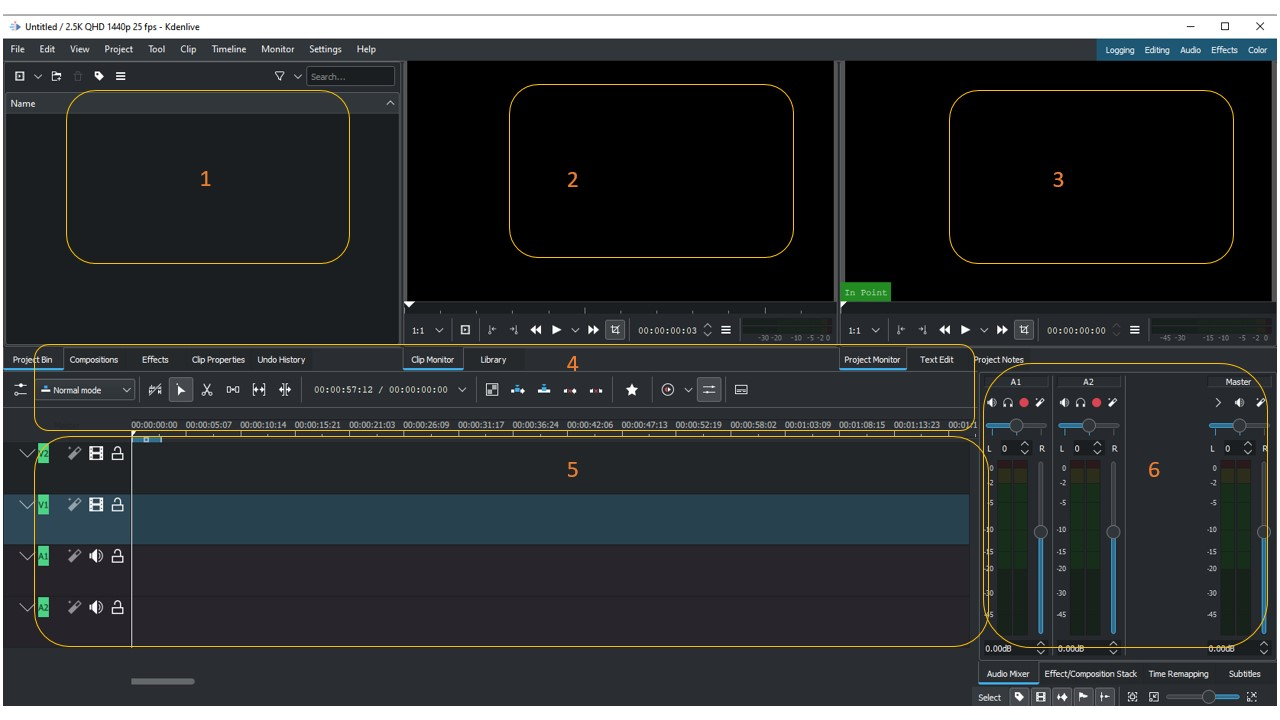
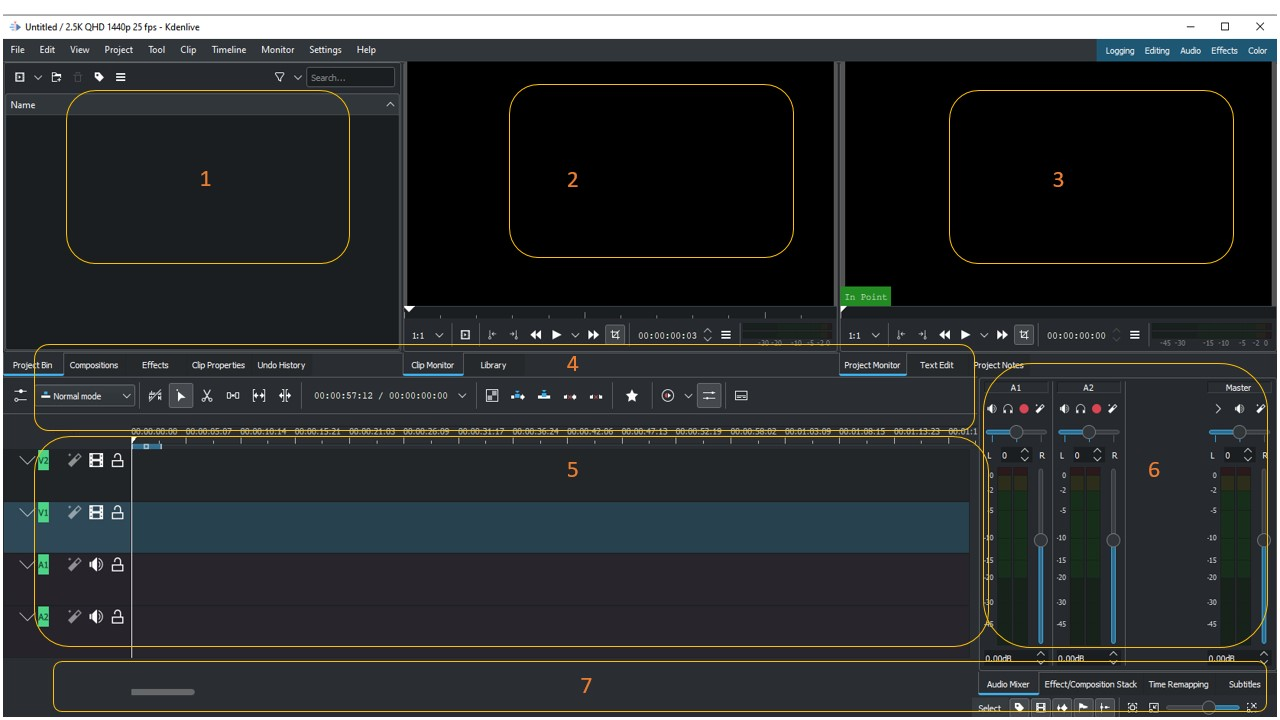
Fix formatting and update some files

diff --git a/user_interface.rst b/user_interface.rst
@@ -1,11 +1,11 @@
 .. meta::
    :description: Introduction to Kdenlive's window system and widgets
-   :keywords: KDE, Kdenlive, user interface, documentation, user manual, video editor, open source, free, learn, easy
+   :keywords: KDE, Kdenlive, user interface, documentation, user manual, video editor, open source, free, learn, easy, timeline, toolbar
 
 .. metadata-placeholder
 
    :authors: - Eugen Mohr
-   :author: - Maris Stalte
+             - Maris Stalte (https://userbase.kde.org/User:limerick)
              
    :license: Creative Commons License SA 4.0
 
@@ -37,47 +37,51 @@ This page introduces the Kdenlive user interface (UI), explaining where to find 
 
 Customizing interface
 ---------------------
-The User interface model has a clear division between the different panes, that they work on allows you to reorder them, drag them out into separate windows or size them up as you will.
+The user interface model has a clear division between the different panes, that they work on allows you to reorder them, drag them out into separate windows or size them up as you will.
 
-The interface is divided into many sections. The menu is on top and then on the left you can make a note about the project. All loaded clips and videos are in the project tree, the second section. Third section is the Effect list. You can apply many transaction effects on your video. You can always watch the project preview in the last section. You can create as many audio/video track as you need. This is impressive about Kdenlive. If you’re new to video editing then this is very useful. You can import multiple title clips inside video track.
+The interface is divided into many sections. The menu is on top and then on the left you can make a note about the project. All loaded clips and videos are in the project bin, the second section. Third section is the Effect list. You can apply many transaction effects on your video. You can always watch the project preview in the last section. You can create as many audio/video track as you need. This is impressive about Kdenlive. If you’re new to video editing then this is very useful. You can import multiple title clips inside video track.
 
 Remove/Adjust Sections
 ``````````````````````
 
 You won't notice on the spot, but the tabs that appear on the bottom of the panes aren't built in them, but change according to what panes you have aggregated into that particular frame. This way you can group functions that you don't expect to use simultaneously into a single place on the user interface, thus reducing clutter.
 
-If you don’t want certain sections on the screen then you can simply delete them to make other sections wider. Just click the close button on that section and that section will be closed, by removing unnecessary video/audio tracks and now You can organize enough space to preview your project and all other necessary sections are wider.
+If you don’t want certain sections on the screen then you can simply delete them to make other sections wider. Just click the close button on that section and that section will be closed, by removing unnecessary video/audio tracks and now you can organize enough space to preview your project and all other necessary sections are wider.
 
 .. figure:: /images/KDENLIVE_User_Interface.png
    :width: 650px
    :alt: interface_window-system_editing-screen
 
-1. Project bin.
-```````````````
-The top left section of the screen is known as the library, bin or browser, where clips, still images, audio files etc. are displayed, ready for use.Replicating the folder naming system within the editing software library will help keep everything organized. It may be helpful to label each clip with one or more descriptive keywords. These can be searched and are a useful way to rapidly locate the desired footage, especially with the use of many clips. It is preferable to edit using the same frame rate and frame size that the footage was shot with. 
+   Kdenlive’s default Screen Layout, editing view
 
-2. Clip Monitor.
-````````````````
-The preview or canvas window (top centre) plays what is currently selected in the timeline.
+1. :ref:`Project Bin <project_tree>`
+````````````````````````````````````
+The top left section of the screen is known as the bin, library or browser, where clips, still images, audio files etc. are displayed, ready for use. Replicating the folder naming system within the editing software library will help keep everything organized. It may be helpful to label each clip with one or more descriptive keywords. These can be searched and are a useful way to rapidly locate the desired footage, especially with the use of many clips. It is preferable to edit using the same frame rate and frame size that the footage was shot with. 
 
-3. Project Monitor.
-```````````````````
-This screen shows all effects such as titles or transitions were be applied to the footage. To apply effects, select it from the effects menu and then drag and drop it between the two clips where it is.
+2. :ref:`Clip Monitor <clip_monitor>`
+`````````````````````````````````````
+The preview or canvas window (top centre) plays what is currently selected in the project bin.
 
-4. Editing Toolbar.
-```````````````````
+3. :ref:`Project Monitor <project_monitor>`
+```````````````````````````````````````````
+This screen shows all clips, still images, audio files and effects such as titles or transitions were be applied to the footage in the timeline. To apply effects, select it from the effects menu and then drag and drop it between the two clips where it is.
+
+4. :ref:`Timeline Toolbar <timeline_toolbar>`
+`````````````````````````````````````````````
 Trimming and other editing tools do not alter or delete the original footage, they only adjust the copy that has been added to the timeline.
 
-5. The Timeline editor.
-```````````````````````
-This is the area where clips are placed in the order in which they will appear in the final video and trimmed to the desired length and content. When assembling the initial “rough cut” of the video, users can place clips from the library into the timeline in the desired sequence. To reorder clips simply click and drag them to a new position. Trimming tools allow only the relevant footage to be used by marking the desired start and end (“in” and “out”) points on each clip, to shorten or lengthen it.
+1. :ref:`The Timeline <editing>`
+````````````````````````````````
+This is the area where clips are placed in the order in which they will appear in the final video and trimmed to the desired length and content. When assembling the initial “rough cut” of the video, users can place clips from the project bin into the timeline in the desired sequence. To reorder clips simply click and drag them to a new position. Trimming tools allow only the relevant footage to be used by marking the desired start and end (“in” and “out”) points on each clip, to shorten or lengthen it.
 
-6. Audio Mixer.
-```````````````
+6. :ref:`Audio Mixer <audio_mixer>`
+``````````````````````````````````
 The sound quality and volume can be adjusted, either for the entire sequence or selected sections. The editing software will display audio meters and generally any dialogue or narration in a video should be at about -10dB most of the time.
 
-7. Status Bar.
-``````````````
+7. :ref:`Status Bar <status_bar>`
+`````````````````````````````````
+On the left side you see hints what you can do when you hover over items. In the middle you see the names of the clips you hover over in the timeline. Followed by mode you are in (default is :guilabel:`Select`). On the right end are switches for :guilabel:`Labels`, :guilabel:`Thumbnails`, :guilabel:`Snap` and for zooming the timeline.    
+
 
 .. toctree::
    :hidden:

diff --git a/user_interface/monitors/project_monitor_rightclick.rst b/user_interface/monitors/project_monitor_rightclick.rst
@@ -1,8 +1,14 @@
+.. meta::
+   :description: Do your first steps with Kdenlive video editor
+   :keywords: KDE, Kdenlive, quick start, first steps, documentation, user manual, video editor, open source, free, learn, easy, monitor, play, zone, loop, go to, extract frame
+
 .. metadata-placeholder
 
    :authors: - Claus Christensen
              - Yuri Chornoivan
              - Ttguy (https://userbase.kde.org/User:Ttguy)
+             - Eugen Mohr
+             - Maris Stalte (https://userbase.kde.org/User:limerick)
 
    :license: Creative Commons License SA 4.0
 
@@ -88,12 +94,14 @@ Example how to extract frame
 Kdenlive sends that frame to the stills gallery, which includes the image and the node structure. You can see if you display node graph by right-clicking, which is helpful to copy and paste adjustments for other clips.
 
 .. image:: /images/image27.png
-  :width: 350px
+   :width: 350px
+   :alt: extract frame
 
 Click export, name it something logical, pick a safe location on your computer and change the format down below to png.
 
 .. image:: /images/image28.png
-  :width: 350px
+   :width: 350px
+   :alt: save extracted frame
 
 Split View
 ----------
@@ -102,13 +110,18 @@ Selecting this allows you to view all the video tracks at once in split screen i
 
 
 .. image:: /images/Kdenlive_Split_view.png
-  :width: 350px
+   :width: 350px
+   :alt: split view
 
 
 Monitor overlay infos
 ---------------------
 
-???
+.. image:: /images/monitor_overlay.png
+   :width: 350px
+   :alt: monitor overlay
+
+4 different monitor overlays help you to show you more information about your videos. This overlays will be not rendered to the final video.
 
 
 Real time (drop frames)

diff --git a/glossary/credits_and_license.rst b/glossary/credits_and_license.rst
@@ -47,7 +47,7 @@ Documentation authors
 * Loopduplicate (https://userbase.kde.org/User:Loopduplicate)
 * Anders Lund
 * Jean-Baptiste Mardelle <jb@kdenlive.org>
-* Marko (https://userbase.kde.org/User:Marko)
+* * Marko (https://userbase.kde.org/User:Marko)
 * Mmaguire (https://userbase.kde.org/User:Mmaguire)
 * Eugen Mohr
 * Roger Morton (Ttguy)
@@ -64,6 +64,7 @@ Documentation authors
 * Roger (https://userbase.kde.org/User:Roger)
 * Carl Schwan <carl@carlschwan.eu>
 * Smolyaninov (https://userbase.kde.org/User:Smolyaninov)
+* Maris Stalte (https://userbase.kde.org/User:limerick)
 * Sunab (https://userbase.kde.org/User:Sunab)
 * Tenzen (https://userbase.kde.org/User:Tenzen)
 * Thanks4theFish (https://userbase.kde.org/User:Thanks4theFish)

diff --git a/effects_and_compositions/effect_groups/alpha_manipulation/rotoscoping.rst b/effects_and_compositions/effect_groups/alpha_manipulation/rotoscoping.rst
@@ -1,3 +1,8 @@
+.. meta::
+   :description: Do your first steps with Kdenlive video editor
+   :keywords: KDE, Kdenlive, quick start, first steps, documentation, user manual, video editor, open source, free, learn, easy, effects, rotoscoping, 
+
+
 .. metadata-placeholder
 
    :authors: - Annew (https://userbase.kde.org/User:Annew)
@@ -7,6 +12,7 @@
              - Bushuev (https://userbase.kde.org/User:Bushuev)
              - Roger (https://userbase.kde.org/User:Roger)
              - TheMickyRosen-Left (https://userbase.kde.org/User:TheMickyRosen-Left)
+             - Maris Stalte (https://userbase.kde.org/User:limerick)
 
    :license: Creative Commons License SA 4.0
 

diff --git a/effects_and_compositions/effect_groups/colour_correction/applylut.rst b/effects_and_compositions/effect_groups/colour_correction/applylut.rst
@@ -1,7 +1,7 @@
 .. metadata-placeholder
 
    :authors: - Mmaguire (https://userbase.kde.org/User:Mmaguire)
-   :authors: - Maris (https://userbase.kde.org/User:limerick)
+             - Maris (https://userbase.kde.org/User:limerick)
 
    :license: Creative Commons License SA 4.0
 

diff --git a/cutting_and_assembling/editing.rst b/cutting_and_assembling/editing.rst
@@ -122,6 +122,7 @@ Right click in the space between the clips and choose :menuselection:`Remove Spa
 .. image:: /images/Kdenlive-removespace.gif
    :alt: remove space
 
+.. _timeline_toolbar:
 
 Timeline Toolbar
 ----------------
